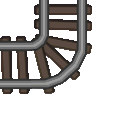
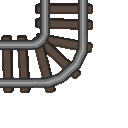
Fixed Images for Curves, Added Decoration

Changed region(s): [[0.0, 0.0, 0.75, 0.75], [0.5312, 0.5938, 0.5938, 0.625]]

diff --git a/Eisenbahnsimulator/AppData.cpp b/Eisenbahnsimulator/AppData.cpp
@@ -2,6 +2,7 @@
 #include "TileObject.h"
 #include "TileRail.h"
 #include "TileSignalRail.h"
+#include "TileDecoration.h"
 Appdata::Appdata()
 {
 	tiles = gcnew Dictionary<String ^,TileObject^>;
@@ -14,13 +15,13 @@ Appdata::Appdata()
 
 
 	// Tiles will be loaded only on startup
-	tiles->Add(L"Tile_Rail_East_South", gcnew Rail(Directions::EastSouth, L"Rails/Rail_Curve_RightBottomC.png", "Tile_Rail_East_South"));
+	tiles->Add(L"Tile_Rail_East_South", gcnew Rail(Directions::EastSouth, L"Rails/Rail_Curve_RightBottom.png", "Tile_Rail_East_South"));
 	tiles->Add(L"Tile_Rail_East_West", gcnew Rail(Directions::EastWest, L"Rails/Rail_Normal_Hor.png", "Tile_Rail_East_West"));
-	tiles->Add(L"Tile_Rail_East_North", gcnew Rail(Directions::NorthEast, L"Rails/Rail_Curve_RightTopC.png", "Tile_Rail_East_North"));
-	tiles->Add(L"Tile_Rail_South_West", gcnew Rail(Directions::SouthWest, L"Rails/Rail_Curve_LeftBottomC.png", "Tile_Rail_South_West"));
+	tiles->Add(L"Tile_Rail_East_North", gcnew Rail(Directions::NorthEast, L"Rails/Rail_Curve_RightTop.png", "Tile_Rail_East_North"));
+	tiles->Add(L"Tile_Rail_South_West", gcnew Rail(Directions::SouthWest, L"Rails/Rail_Curve_LeftBottom.png", "Tile_Rail_South_West"));
 	tiles->Add(L"Tile_Rail_South_North", gcnew Rail(Directions::NorthSouth, L"Rails/Rail_Normal_Vert.png", "Tile_Rail_South_North"));
-	tiles->Add(L"Tile_Rail_West_North", gcnew Rail(Directions::NorthWest, L"Rails/Rail_Curve_LeftTopC.png", "Tile_Rail_West_North"));
-	
+	tiles->Add(L"Tile_Rail_West_North", gcnew Rail(Directions::NorthWest, L"Rails/Rail_Curve_LeftTop.png", "Tile_Rail_West_North"));
+
 	tiles->Add(L"Tile_Rail_Signal_North_South", gcnew SignalRail(Directions::NorthSouth, 1, 1, L"Rails/Rail_Normal_Vert_SignalGreen.png", L"Rails/Rail_Normal_Vert_SignalRed.png", L"Tile_Rail_Signal_North_South"));
 	tiles->Add(L"Tile_Rail_Signal_West_East", gcnew SignalRail(Directions::WestEast, 1, 1, L"Rails/Rail_Normal_Hor_SignalGreen.png", L"Rails/Rail_Normal_Hor_SignalRed.png", L"Tile_Rail_Signal_West_East"));
 	tiles->Add(L"Tile_Rail_Signal_North_East", gcnew SignalRail(Directions::NorthEast, 1, 1, L"Rails/Rail_Curve_RightTop_SignalGreen.png", L"Rails/Rail_Curve_RightTop_SignalRed.png", L"Tile_Rail_Signal_West_East"));
@@ -36,14 +37,17 @@ Appdata::Appdata()
 	*/
 	trains->Add(L"train", gcnew Train(TrainType::ElectricLocomotive, "Test Train", Direction::East, Direction::North, static_cast<Rail^>(getTile("Tile_Rail_East_South")),L"Rails/Rail_Curve_LeftTop.png"));
 
-
+	tiles->Add(L"FoliageTree", gcnew Decoration(DecoType::FoliageTree, L"Rails/FoliageTree.png", "FoliageTree"));
+	tiles->Add(L"Conifer", gcnew Decoration(DecoType::Conifer, L"Rails/Conifer.png", "Conifer"));
+	tiles->Add(L"Bush", gcnew Decoration(DecoType::Bush, L"Rails/Bush.png", "Bush"));
+	tiles->Add(L"House", gcnew Decoration(DecoType::House, L"Rails/House.png", "House"));
 
 
 	// Create Categories for Toolbox
 	List<String^>^ categoryRails = gcnew List<String^>;
 	List<String^>^ categoryTrains = gcnew List<String^>;
 	List<String^>^ categoryRailSwitches = gcnew List<String^>;
-	List<String^>^ categoryDecoractions = gcnew List<String^>;
+	List<String^>^ categoryDecorations = gcnew List<String^>;
 	List<String^>^ categoryRailStop = gcnew List<String^>;
 	List<String^>^ categoryEnvironment = gcnew List<String^>;
 	List<String^>^ categoryAll = gcnew List <String^>;
@@ -62,7 +66,10 @@ Appdata::Appdata()
 	// Items in train category in this order
 	categoryTrains->Add(L"train");
 
-
+	categoryDecorations->Add(L"FoliageTree");
+	categoryDecorations->Add(L"Conifer");
+	categoryDecorations->Add(L"Bush");
+	categoryDecorations->Add(L"House");
 
 
 
@@ -80,7 +87,7 @@ Appdata::Appdata()
 	{
 		categoryAll->Add(item);
 	}
-	for each (String^ item in categoryDecoractions)
+	for each (String^ item in categoryDecorations)
 	{
 		categoryAll->Add(item);
 	}
@@ -97,7 +104,7 @@ Appdata::Appdata()
 	categories->Add(L"Category_Rails", categoryRails);
 	categories->Add(L"Category_Trains", categoryTrains);
 	categories->Add(L"Category_RailSwitches", categoryRailSwitches);
-	categories->Add(L"Category_Decoration", categoryDecoractions);
+	categories->Add(L"Category_Decoration", categoryDecorations);
 	categories->Add(L"Category_RailStops", categoryRailStop);
 	categories->Add(L"Category_Environment", categoryEnvironment);
 	categories->Add(L"Category_All", categoryAll);
@@ -121,6 +128,10 @@ Appdata::Appdata()
 	lang->Add(L"Tile_Rail_South_North", L"Schiene Süd-Nord");
 	lang->Add(L"Tile_Rail_West_North", L"Schiene West-Nord");
 
+	lang->Add(L"FoliageTree", L"Laubbaum");
+	lang->Add(L"Conifer", L"Nadelbaum");
+	lang->Add(L"Bush", L"Strauch");
+	lang->Add(L"House", L"Haus");
 
 	lang->Add(L"Category_Rails", L"Schienen");
 	lang->Add(L"Category_Trains", L"Züge");
